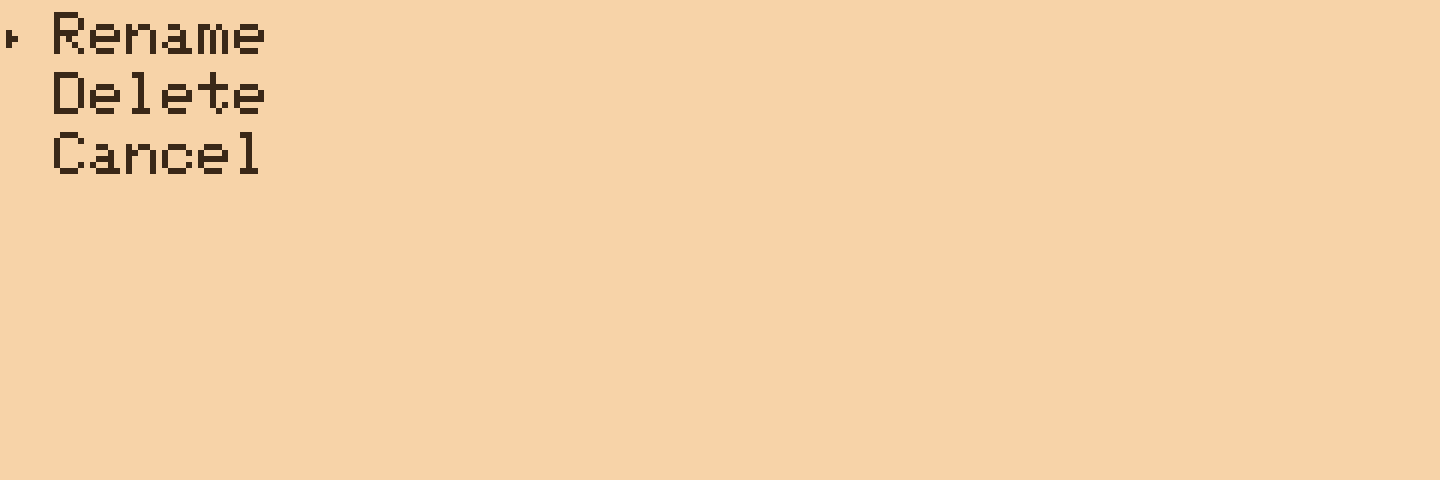
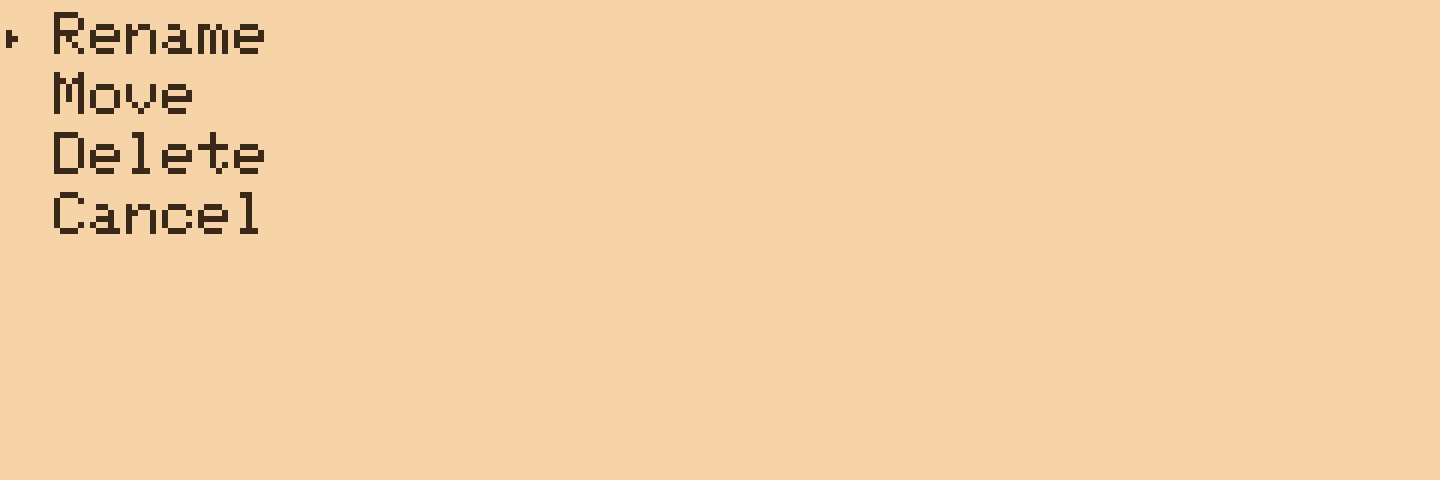
feat(files): move files and folders from Manage mode

Changed region(s): [[0.0312, 0.4062, 0.1875, 0.5], [0.0312, 0.125, 0.1875, 0.25], [0.0312, 0.2812, 0.1875, 0.375]]

diff --git a/docs/docs/using/writing.md b/docs/docs/using/writing.md
@@ -23,7 +23,7 @@ Inside a project the list has `Back`, `+ New File`, `+ New Folder`, then folders
 
 ![Naming a new file](/img/screens/new-file.png)
 
-The names Back, New Project and Manage are reserved, because they are rows in the list; the device will tell you if you try to use one.
+The names Back, New Project, Manage, Move here and Cancel move are reserved, because they are rows in the list; the device will tell you if you try to use one.
 
 Press `POWER` on any list to see the status panel: how many items are in the folder, the battery, and free space on the card.
 
@@ -31,13 +31,19 @@ Press `POWER` on any list to see the status panel: how many items are in the fol
 
 ## Manage Mode
 
-`Manage` at the bottom of any list switches it into Manage mode. The row turns into `Done` with a tick, MANAGE appears in the corner, and picking a file or folder now offers `Rename`, `Delete` or `Cancel` instead of opening it.
+`Manage` at the bottom of any list switches it into Manage mode. The row turns into `Done` with a tick, MANAGE appears in the corner, and picking a file or folder now offers `Rename`, `Move`, `Delete` or `Cancel` instead of opening it.
 
 ![Manage mode](/img/screens/manage.png)
 
-![Rename, delete or cancel](/img/screens/manage-choose.png)
+![Rename, move, delete or cancel](/img/screens/manage-choose.png)
 
-`Rename` opens the name for editing with the old one filled in. Renaming to a name that already exists is refused. `Delete` asks once more before it does anything, and for a folder it says so: the folder and everything in it go.
+`Rename` opens the name for editing with the old one filled in. Renaming to a name that already exists is refused.
+
+`Move` turns the list into a destination picker: MOVE appears in the corner, the item on the move is hidden, and every folder shows `Move here` and `Cancel move` at the top. Walk to the folder you want with the usual rows, then pick `Move here`. A file cannot be moved to the top of Projects, since only folders live there; a folder moved there becomes a project. Moving onto a name that already exists is refused.
+
+![Choosing where to move a file](/img/screens/manage-move.png)
+
+`Delete` asks once more before it does anything, and for a folder it says so: the folder and everything in it go.
 
 ![Confirming a delete](/img/screens/manage-delete.png)
 

diff --git a/CHANGELOG.md b/CHANGELOG.md
@@ -8,6 +8,7 @@ The format follows [Keep a Changelog](https://keepachangelog.com/en/1.1.0/), and
 
 ### Added
 
+- `Move` in Manage mode: pick a file or folder, walk to another folder, `Move here`.
 - Backspace, arrows and letters repeat after a short delay while the key stays down; the keyboard itself only reports changes.
 
 ## [1.0.0] - 2026-09-05
